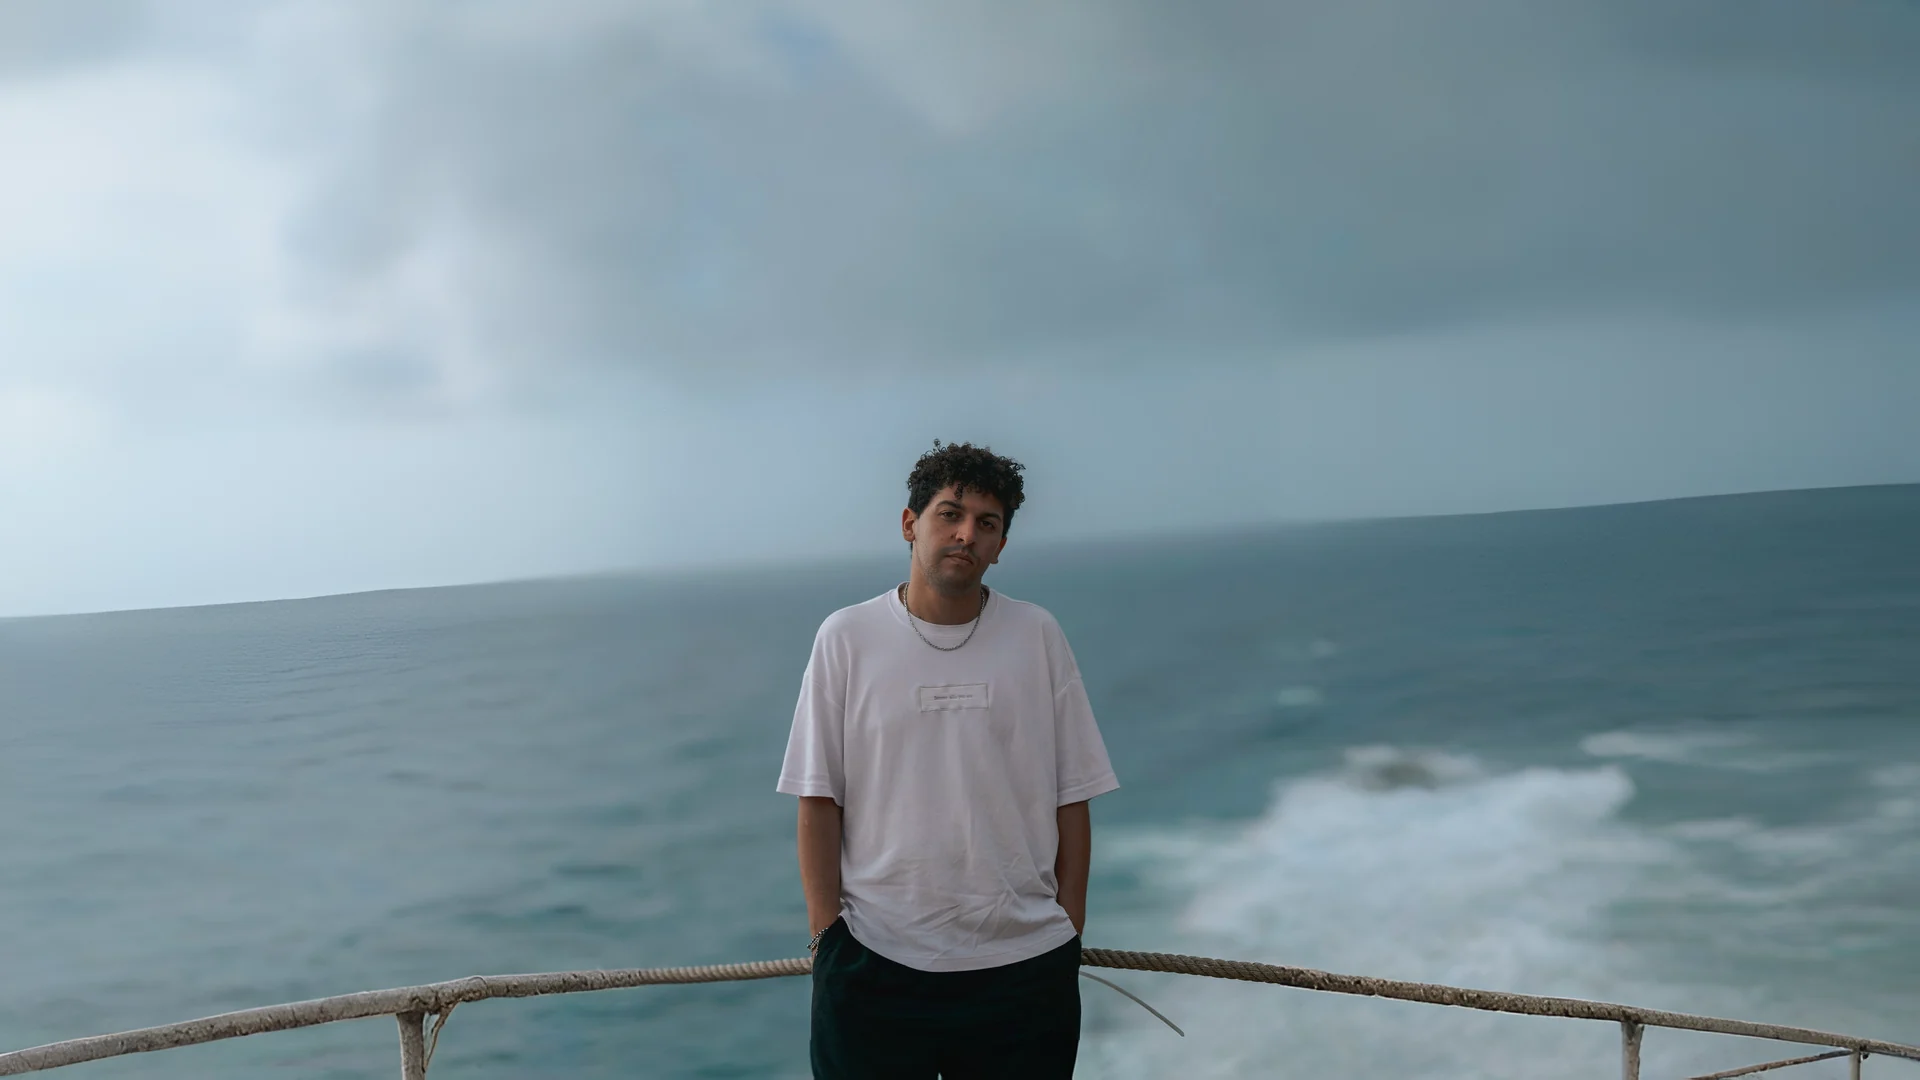
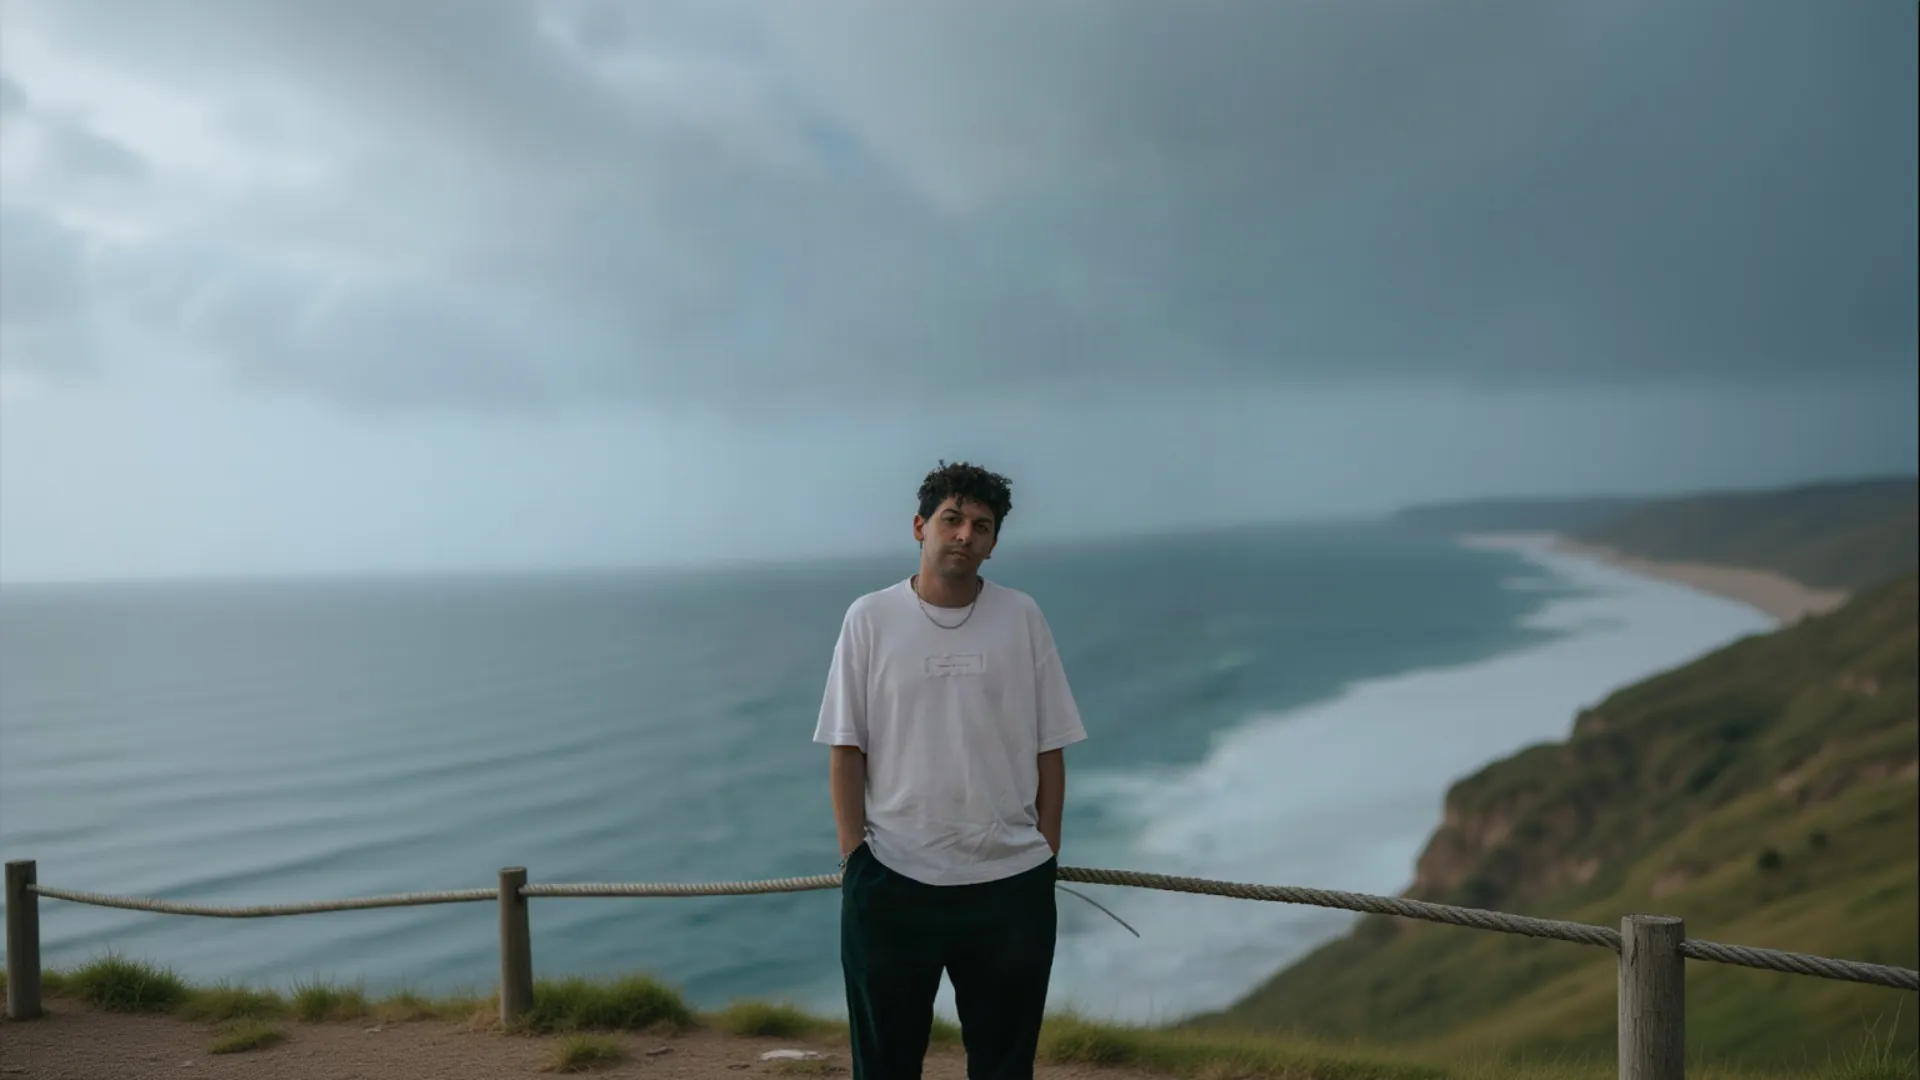
content: new hero photo
The photo on the coastal lookout replaces the terrace shot in the hero and
the About portrait, with an alt text that describes it.

diff --git a/src/content/hero.js b/src/content/hero.js
@@ -4,7 +4,7 @@ export const HERO = {
   photo: {
     src: '/images/hero.webp',
     size: [1920, 1080],
-    alt: 'Omar in piedi su una terrazza davanti al mare in tempesta',
+    alt: 'Omar in piedi su un belvedere sopra il mare, sotto un cielo in tempesta',
   },
   /** Righe della frase: l'ultima resta più tenue. */
   tagline: ['Full stack developer: progetto', 'e sviluppo esperienze digitali'],
